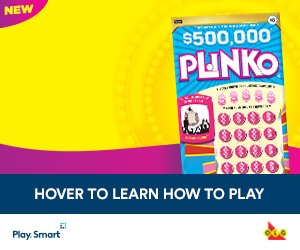
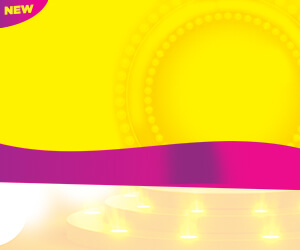
OLG Plinko Q1 2020 IO - 8 formats

diff --git a/2020/2020-12/2020-12-08/source/300x250_d.css b/2020/2020-12/2020-12-08/source/300x250_d.css
@@ -868,9 +868,23 @@
 .bg {
   background: url('./images/300x250_d_bg.jpg') no-repeat center center;
   background-size: 100% auto;
-  -webkit-animation: fadeIn 0.75s ease-in-out 0.75s forwards;
-  -moz-animation: fadeIn 0.75s ease-in-out 0.75s forwards;
-  animation: fadeIn 0.75s ease-in-out 0.75s forwards;
+  -webkit-animation: fadeIn 0.75s ease-in-out 0.5s forwards;
+  -moz-animation: fadeIn 0.75s ease-in-out 0.5s forwards;
+  animation: fadeIn 0.75s ease-in-out 0.5s forwards;
+}
+.cta {
+  background: url('./images/300x250_d_cta.png') no-repeat center center;
+  background-size: 100% auto;
+  -webkit-animation: fadeIn 0.75s ease-in-out 0.5s forwards;
+  -moz-animation: fadeIn 0.75s ease-in-out 0.5s forwards;
+  animation: fadeIn 0.75s ease-in-out 0.5s forwards;
+}
+.ticket {
+  background: url('./images/300x250_d_ticket.png') no-repeat center center;
+  background-size: 100% auto;
+  -webkit-animation: fadeInUp 0.75s ease-in-out 0.75s forwards;
+  -moz-animation: fadeInUp 0.75s ease-in-out 0.75s forwards;
+  animation: fadeInUp 0.75s ease-in-out 0.75s forwards;
 }
 .head1 {
   background: url('./images/300x250_d_head1.png') no-repeat center center;

diff --git a/2020/2020-12/2020-12-08/source/300x250_m.css b/2020/2020-12/2020-12-08/source/300x250_m.css
@@ -868,9 +868,23 @@
 .bg {
   background: url('./images/300x250_m_bg.jpg') no-repeat center center;
   background-size: 100% auto;
-  -webkit-animation: fadeIn 0.75s ease-in-out 0.75s forwards;
-  -moz-animation: fadeIn 0.75s ease-in-out 0.75s forwards;
-  animation: fadeIn 0.75s ease-in-out 0.75s forwards;
+  -webkit-animation: fadeIn 0.75s ease-in-out 0.5s forwards;
+  -moz-animation: fadeIn 0.75s ease-in-out 0.5s forwards;
+  animation: fadeIn 0.75s ease-in-out 0.5s forwards;
+}
+.cta {
+  background: url('./images/300x250_m_cta.png') no-repeat center center;
+  background-size: 100% auto;
+  -webkit-animation: fadeIn 0.75s ease-in-out 0.5s forwards;
+  -moz-animation: fadeIn 0.75s ease-in-out 0.5s forwards;
+  animation: fadeIn 0.75s ease-in-out 0.5s forwards;
+}
+.ticket {
+  background: url('./images/300x250_m_ticket.png') no-repeat center center;
+  background-size: 100% auto;
+  -webkit-animation: fadeInUp 0.75s ease-in-out 0.75s forwards;
+  -moz-animation: fadeInUp 0.75s ease-in-out 0.75s forwards;
+  animation: fadeInUp 0.75s ease-in-out 0.75s forwards;
 }
 .head1 {
   background: url('./images/300x250_m_head1.png') no-repeat center center;

diff --git a/2020/2020-12/2020-12-08/source/160x600.css b/2020/2020-12/2020-12-08/source/160x600.css
@@ -868,9 +868,23 @@
 .bg {
   background: url('./images/160x600_bg.jpg') no-repeat center center;
   background-size: 100% auto;
-  -webkit-animation: fadeIn 0.75s ease-in-out 0.75s forwards;
-  -moz-animation: fadeIn 0.75s ease-in-out 0.75s forwards;
-  animation: fadeIn 0.75s ease-in-out 0.75s forwards;
+  -webkit-animation: fadeIn 0.75s ease-in-out 0.5s forwards;
+  -moz-animation: fadeIn 0.75s ease-in-out 0.5s forwards;
+  animation: fadeIn 0.75s ease-in-out 0.5s forwards;
+}
+.cta {
+  background: url('./images/160x600_cta.png') no-repeat center center;
+  background-size: 100% auto;
+  -webkit-animation: fadeIn 0.75s ease-in-out 0.5s forwards;
+  -moz-animation: fadeIn 0.75s ease-in-out 0.5s forwards;
+  animation: fadeIn 0.75s ease-in-out 0.5s forwards;
+}
+.ticket {
+  background: url('./images/160x600_ticket.png') no-repeat center center;
+  background-size: 100% auto;
+  -webkit-animation: fadeInUp 0.75s ease-in-out 0.75s forwards;
+  -moz-animation: fadeInUp 0.75s ease-in-out 0.75s forwards;
+  animation: fadeInUp 0.75s ease-in-out 0.75s forwards;
 }
 .head1 {
   background: url('./images/160x600_head1.png') no-repeat center center;

diff --git a/2020/2020-12/2020-12-08/source/300x600.css b/2020/2020-12/2020-12-08/source/300x600.css
@@ -868,9 +868,23 @@
 .bg {
   background: url('./images/300x600_bg.jpg') no-repeat center center;
   background-size: 100% auto;
-  -webkit-animation: fadeIn 0.75s ease-in-out 0.75s forwards;
-  -moz-animation: fadeIn 0.75s ease-in-out 0.75s forwards;
-  animation: fadeIn 0.75s ease-in-out 0.75s forwards;
+  -webkit-animation: fadeIn 0.75s ease-in-out 0.5s forwards;
+  -moz-animation: fadeIn 0.75s ease-in-out 0.5s forwards;
+  animation: fadeIn 0.75s ease-in-out 0.5s forwards;
+}
+.cta {
+  background: url('./images/300x600_cta.png') no-repeat center center;
+  background-size: 100% auto;
+  -webkit-animation: fadeIn 0.75s ease-in-out 0.5s forwards;
+  -moz-animation: fadeIn 0.75s ease-in-out 0.5s forwards;
+  animation: fadeIn 0.75s ease-in-out 0.5s forwards;
+}
+.ticket {
+  background: url('./images/300x600_ticket.png') no-repeat center center;
+  background-size: 100% auto;
+  -webkit-animation: fadeInUp 0.75s ease-in-out 0.75s forwards;
+  -moz-animation: fadeInUp 0.75s ease-in-out 0.75s forwards;
+  animation: fadeInUp 0.75s ease-in-out 0.75s forwards;
 }
 .head1 {
   background: url('./images/300x600_head1.png') no-repeat center center;

diff --git a/2020/2020-12/2020-12-08/source/970x250.css b/2020/2020-12/2020-12-08/source/970x250.css
@@ -868,9 +868,16 @@
 .bg {
   background: url('./images/970x250_bg.jpg') no-repeat center center;
   background-size: 100% auto;
-  -webkit-animation: fadeIn 0.75s ease-in-out 0.75s forwards;
-  -moz-animation: fadeIn 0.75s ease-in-out 0.75s forwards;
-  animation: fadeIn 0.75s ease-in-out 0.75s forwards;
+  -webkit-animation: fadeIn 0.75s ease-in-out 0.5s forwards;
+  -moz-animation: fadeIn 0.75s ease-in-out 0.5s forwards;
+  animation: fadeIn 0.75s ease-in-out 0.5s forwards;
+}
+.ticket {
+  background: url('./images/970x250_ticket.png') no-repeat center center;
+  background-size: 100% auto;
+  -webkit-animation: fadeInUp 0.75s ease-in-out 0.75s forwards;
+  -moz-animation: fadeInUp 0.75s ease-in-out 0.75s forwards;
+  animation: fadeInUp 0.75s ease-in-out 0.75s forwards;
 }
 .head1 {
   background: url('./images/970x250_head1.png') no-repeat center center;

diff --git a/2020/2020-12/2020-12-08/source/728x90.css b/2020/2020-12/2020-12-08/source/728x90.css
@@ -868,9 +868,16 @@
 .bg {
   background: url('./images/728x90_bg.jpg') no-repeat center center;
   background-size: 100% auto;
-  -webkit-animation: fadeIn 0.75s ease-in-out 0.75s forwards;
-  -moz-animation: fadeIn 0.75s ease-in-out 0.75s forwards;
-  animation: fadeIn 0.75s ease-in-out 0.75s forwards;
+  -webkit-animation: fadeIn 0.75s ease-in-out 0.5s forwards;
+  -moz-animation: fadeIn 0.75s ease-in-out 0.5s forwards;
+  animation: fadeIn 0.75s ease-in-out 0.5s forwards;
+}
+.ticket {
+  background: url('./images/728x90_ticket.png') no-repeat center center;
+  background-size: 100% auto;
+  -webkit-animation: fadeInUp 0.75s ease-in-out 0.75s forwards;
+  -moz-animation: fadeInUp 0.75s ease-in-out 0.75s forwards;
+  animation: fadeInUp 0.75s ease-in-out 0.75s forwards;
 }
 .head1 {
   background: url('./images/728x90_head1.png') no-repeat center center;

diff --git a/2020/2020-12/2020-12-08/source/160x600.html b/2020/2020-12/2020-12-08/source/160x600.html
@@ -14,6 +14,8 @@
 				<div class="content container">
 					<div id="ads" class="content-wrapper container">
 						<div class="bg container">&nbsp;</div>
+						<div class="ticket container">&nbsp;</div>
+						<div class="cta container">&nbsp;</div>
 						<div class="head1 absolute">&nbsp;</div>
 						<div class="head2 absolute">&nbsp;</div>
 						<div class="head3 absolute">&nbsp;</div>

diff --git a/2020/2020-12/2020-12-08/source/300x250_d.html b/2020/2020-12/2020-12-08/source/300x250_d.html
@@ -14,6 +14,8 @@
 				<div class="content container">
 					<div id="ads" class="content-wrapper container">
 						<div class="bg container">&nbsp;</div>
+						<div class="ticket container">&nbsp;</div>
+						<div class="cta container">&nbsp;</div>
 						<div class="head1 absolute">&nbsp;</div>
 						<div class="head2 absolute">&nbsp;</div>
 						<div class="head3 absolute">&nbsp;</div>

diff --git a/2020/2020-12/2020-12-08/source/300x250_m.html b/2020/2020-12/2020-12-08/source/300x250_m.html
@@ -14,6 +14,8 @@
 				<div class="content container">
 					<div id="ads" class="content-wrapper container">
 						<div class="bg container">&nbsp;</div>
+						<div class="ticket container">&nbsp;</div>
+						<div class="cta container">&nbsp;</div>
 						<div class="head1 absolute">&nbsp;</div>
 						<div class="head2 absolute">&nbsp;</div>
 						<div class="head3 absolute">&nbsp;</div>

diff --git a/2020/2020-12/2020-12-08/source/300x600.html b/2020/2020-12/2020-12-08/source/300x600.html
@@ -14,6 +14,8 @@
 				<div class="content container">
 					<div id="ads" class="content-wrapper container">
 						<div class="bg container">&nbsp;</div>
+						<div class="ticket container">&nbsp;</div>
+						<div class="cta container">&nbsp;</div>
 						<div class="head1 absolute">&nbsp;</div>
 						<div class="head2 absolute">&nbsp;</div>
 						<div class="head3 absolute">&nbsp;</div>

diff --git a/2020/2020-12/2020-12-08/source/728x90.html b/2020/2020-12/2020-12-08/source/728x90.html
@@ -14,6 +14,7 @@
 				<div class="content container">
 					<div id="ads" class="content-wrapper container">
 						<div class="bg container">&nbsp;</div>
+						<div class="ticket container">&nbsp;</div>
 						<div class="head1 absolute">&nbsp;</div>
 						<div class="head2 absolute">&nbsp;</div>
 					</div>

diff --git a/2020/2020-12/2020-12-08/source/970x250.html b/2020/2020-12/2020-12-08/source/970x250.html
@@ -14,6 +14,7 @@
 				<div class="content container">
 					<div id="ads" class="content-wrapper container">
 						<div class="bg container">&nbsp;</div>
+						<div class="ticket container">&nbsp;</div>
 						<div class="head1 absolute">&nbsp;</div>
 						<div class="head2 absolute">&nbsp;</div>
 					</div>
